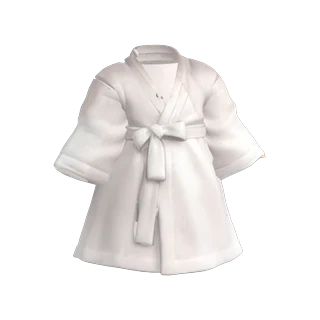
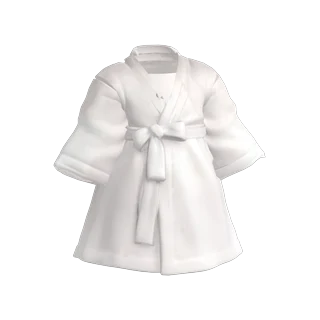
fix(art): 갓·도포를 기준 그림에 가깝게 (신발 구멍·목 뒤·목 안감·바지 통·흰색) (#331)
- fit_outfit.py: shoe_cap(신발 입구 뚜껑), dark_lining 모서리까지 검사, neck_poke(깃 뒤로 뚫고 나온 목 피부 가림),
  clean_skin(옷에 칠해진 피부색 정리), brighten/despeck(흰 옷 밝게·회색 점 제거), pants_low(대님 바지 통)
- render_look.py: view= 로 가까이 보기 각도 지정
- man·girl(몸 조각 변경), gat.glb, 옷장 그림, 문서 갱신

diff --git a/tools/character/fit_outfit.py b/tools/character/fit_outfit.py
@@ -1,6 +1,6 @@
 """Fit a Tripo outfit (made in parts on the shared body's T-pose sheet) onto the shared layered build as item set
 <set>, for any outfit: -- <shared_layers.glb> <outfit_parts.glb> <out.glb> set=h map=HAIR:0,1;TOP:2,3;BOTTOM:4;SHOES:5
-       [s=1.0] [dx=0 dy=0 dz=0] [head_fit=N] [pants=1] [fill=BOTTOM] [sleeve_drape=1.0 sleeves=N,M] [under_tops=1] [cull=1] [lining=1 lining_skin=1 v_cut=ax,az,lx,lz,rx,rz] [shoe_cut=1 | shoe_level=1] [dark_lining=SHOES] [clean_dark=TOP clean_v=1] [predecimate=N:faces] [smooth_rims=SHOES] [make_shoes=1 shoe_top=0.03] [socks=1] [skirt=TOP] [stiff=0.03] [boot_top=auto] [hair_hides_scalp=0]
+       [s=1.0] [dx=0 dy=0 dz=0] [head_fit=N] [pants=1] [fill=BOTTOM] [sleeve_drape=1.0 sleeves=N,M] [under_tops=1] [cull=1] [lining=1 lining_skin=1 v_cut=ax,az,lx,lz,rx,rz] [shoe_cut=1 | shoe_level=1] [dark_lining=SHOES] [shoe_cap=1] [clean_skin=TOP] [neck_poke=1] [brighten=TOP,BOTTOM despeck=1] [clean_dark=TOP clean_v=1] [predecimate=N:faces] [smooth_rims=SHOES] [make_shoes=1 shoe_top=0.03] [socks=1] [skirt=TOP] [stiff=0.03] [boot_top=auto] [hair_hides_scalp=0]
 
 The common steps of add_set.py (the general's script) without its general-only fixes (docs/character-outfits.md):
 - the outfit, scaled by s about the ground origin and moved by dx/dy/dz, lies on the shared body (check with
@@ -202,6 +202,32 @@ for slot, names in SLOT_PARTS.items():
     it = bpy.context.view_layer.objects.active; it.name = f'item__{slot}__{SET}'; G[slot] = it
     print('ITEM', it.name, len(it.data.polygons), 'faces')
 
+# brighten=TOP,BOTTOM (the gat's white dopo and baji): Tripo's whites came out grey, darker than the sheet's (user:
+# make it like the sheet). In the slots' images the light texels (brighter than 0.45) are lifted toward white by
+# brighten_k (0.35 of the way), the dark ones (hat, shoes, hair) left alone.
+_done_img = set()
+for slot in [x for x in opt.get('brighten', '').split(',') if x and x in G]:
+    for m in G[slot].data.materials:
+        for n in m.node_tree.nodes:
+            if n.type != 'TEX_IMAGE' or not n.image or n.image.name in _done_img: continue
+            img = n.image; _done_img.add(img.name); w_, h_ = img.size
+            P = np.array(img.pixels[:], np.float32).reshape(h_ * w_, -1)
+            lum = P[:, :3].mean(1); k = float(opt.get('brighten_k', 0.35)) * np.clip((lum - 0.45) / 0.2, 0, 1)
+            P[:, :3] += (1 - P[:, :3]) * k[:, None]
+            # despeck=1: Tripo's grey dots on the white cloth (user: like the sheet) are pixels darker by despeck_d
+            # (0.1) than their neighbourhood (a box of despeck_r, 10 px) where that neighbourhood is light (over 0.7);
+            # they take the neighbourhood's colour
+            if opt.get('despeck', '0') == '1':
+                r_ = int(opt.get('despeck_r', 10)); Q = P[:, :3].reshape(h_, w_, 3)
+                S = np.pad(Q, ((r_ + 1, r_), (r_ + 1, r_), (0, 0)), mode='edge').cumsum(0).cumsum(1)
+                Bx = (S[2 * r_ + 1:, 2 * r_ + 1:] - S[:-2 * r_ - 1, 2 * r_ + 1:] - S[2 * r_ + 1:, :-2 * r_ - 1] + S[:-2 * r_ - 1, :-2 * r_ - 1]) / (2 * r_ + 1) ** 2
+                bl, ql = Bx.mean(2), Q.mean(2)
+                sp = (bl > 0.7) & (ql < bl - float(opt.get('despeck_d', 0.1)))
+                Q[sp] = Bx[sp]; P[:, :3] = Q.reshape(-1, 3)
+                print('DESPECK', int(sp.sum()), 'pixels')
+            img.pixels[:] = P.ravel(); img.update(); img.pack()
+            print('BRIGHTEN', slot, img.name, w_, 'x', h_)
+
 if opt.get('boot_top', 'auto') == 'auto':
     boot_top = (max(v.co.z for v in G['SHOES'].data.vertices) - 0.015) if 'SHOES' in G else 0.0
 else:
@@ -271,10 +297,14 @@ if opt.get('pants', '0') == '1' and 'BOTTOM' in G:
     for _ in range(3): bmesh.ops.smooth_vert(pb_, verts=[v for v in pb_.verts if not v.is_boundary], factor=0.5,
                                              use_axis_x=True, use_axis_y=True, use_axis_z=True)
     FULL, INNER = float(opt.get('pants_full', 1.45)), float(opt.get('pants_inner', 0.35))
+    LOW = float(opt.get('pants_low', 0))
     hip_z, ankle_z = J['LeftUpLeg'].z, J['LeftFoot'].z
     def profile(z):
         t = (z - ankle_z) / (hip_z - ankle_z)
         pts = [(-1, 1.04), (0.0, 1.04), (0.1, 1.3), (0.45, FULL), (0.85, FULL * 0.9), (1.0, 1.2), (1.3, 1.08), (9, 1.08)]
+        # pants_low=k (the gat's baji, like the sheet's): full right down to the ankle, gathered there (k at 8 % of
+        # the leg over the ankle), instead of a straight tube under the robe
+        if LOW: pts = [(-1, 1.04), (0.0, 1.04), (0.08, LOW), (0.3, max(LOW, FULL * 0.95)), (0.45, FULL), (0.85, FULL * 0.9), (1.0, 1.2), (1.3, 1.08), (9, 1.08)]
         for (t0, f0), (t1, f1) in zip(pts, pts[1:]):
             if t <= t1: return f0 + (f1 - f0) * (t - t0) / (t1 - t0)
     def axis_point(co):
@@ -481,6 +511,36 @@ if opt.get('shoe_level', '0') == '1' and 'SHOES' in G:
         if v.co.z > zc and math.hypot(v.co.x - ft.x, v.co.y - ft.y) < rr: v.co.z = zc; n_ += 1
     print('SHOES', n_, 'rim vertices pressed to z', round(zc, 3))
 
+# shoe_cap=1 (the gat's low shoes): from above, between the trousers and the rim the shoe's empty inside showed the
+# ground (its inner faces are back faces, user: the feet are holed). Each shoe's opening gets a flat dark lid 1.5 mm
+# under the levelled rim: the outline (convex hull) of its vertices round the ankle (shoe_level_r) at the rim's level.
+if opt.get('shoe_cap', '0') == '1' and 'SHOES' in G:
+    from mathutils.geometry import convex_hull_2d
+    it = G['SHOES']; zc = boot_top + float(opt.get('shoe_level_up', 0.008)); rr = float(opt.get('shoe_level_r', 0.045))
+    img = next(n.image for m in it.data.materials for n in m.node_tree.nodes if n.type == 'TEX_IMAGE' and n.image)
+    w_, h_ = img.size; P = np.array(img.pixels[:], np.float32).reshape(h_, w_, -1)[..., :3]
+    uvd = it.data.uv_layers.active.data
+    cs = sorted((P[min(h_ - 1, int(uvd[l].uv[1] * h_)), min(w_ - 1, int(uvd[l].uv[0] * w_))].mean(), l) for l in range(0, len(uvd), 5))
+    dark_uv = tuple(uvd[cs[len(cs) // 4][1]].uv)
+    capb = bmesh.new()
+    for side, sg in (('Left', 1), ('Right', -1)):
+        ft = J[side + 'Foot']
+        pts = [(v.co.x, v.co.y) for v in it.data.vertices
+               if v.co.x * sg > 0 and v.co.z > zc - float(opt.get('shoe_cap_depth', 0.006)) and math.hypot(v.co.x - ft.x, v.co.y - ft.y) < rr]
+        if len(pts) < 3: continue
+        hull = convex_hull_2d(pts)
+        f = capb.faces.new([capb.verts.new((pts[i][0], pts[i][1], zc - 0.0015)) for i in hull])
+        f.normal_update()
+        if f.normal.z < 0: f.normal_flip()
+    bmesh.ops.triangulate(capb, faces=capb.faces[:])
+    cap = bpy.data.objects.new('cap', bpy.data.meshes.new('cap')); bpy.context.scene.collection.objects.link(cap)
+    capb.to_mesh(cap.data); capb.free(); n_cap = len(cap.data.polygons)
+    on_texel(cap, it, dark_uv)
+    cap.vertex_groups.new(name='part:shoes').add(list(range(len(cap.data.vertices))), 1.0, 'REPLACE')
+    for x in bpy.data.objects: x.select_set(x in (it, cap))
+    bpy.context.view_layer.objects.active = it; bpy.ops.object.join()
+    print('SHOES cap', n_cap, 'faces at z', round(zc - 0.0015, 4))
+
 # dark_lining=SHOES (the gat's shoes): the low shoes' white inner lining showed round the ankle as white teeth.
 # The slot's light faces (texel at their UV centre brighter than dark_light, 0.6) take its dark texel (the median
 # of its darker half).
@@ -492,12 +552,14 @@ for slot in [x for x in opt.get('dark_lining', '').split(',') if x]:
     col = lambda u: P[min(h_ - 1, int(u[1] * h_)), min(w_ - 1, int(u[0] * w_))]
     fc = {p.index: col(np.mean([tuple(uvd[l].uv) for l in p.loop_indices], 0)) for p in it.data.polygons}
     lum = {i: float(c.mean()) for i, c in fc.items()}
+    # (a face is light when its centre or any corner is: white triangles with dark centres stayed at the throat)
+    lum_max = {p.index: max([lum[p.index]] + [float(col(tuple(uvd[l].uv)).mean()) for l in p.loop_indices]) for p in it.data.polygons}
     dark = sorted(lum, key=lum.get)[: max(1, len(lum) // 2)]
     dmed = np.median([lum[i] for i in dark]); di = min(dark, key=lambda i: abs(lum[i] - dmed))
     duv = np.mean([tuple(uvd[l].uv) for l in it.data.polygons[di].loop_indices], 0)
     n_ = 0
     for p in it.data.polygons:
-        if lum[p.index] > float(opt.get('dark_light', 0.6)):
+        if lum_max[p.index] > float(opt.get('dark_light', 0.6)):
             for l in p.loop_indices: uvd[l].uv = duv
             n_ += 1
     print('DARK lining', slot, n_, 'light faces to', round(float(dmed), 2))
@@ -521,6 +583,24 @@ for slot in [x for x in opt.get('clean_dark', '').split(',') if x]:
             for l in p.loop_indices: uvd[l].uv = uv_mid
             n_ += 1
     print('CLEAN dark', slot, n_, 'faces')
+
+# clean_skin=TOP (the gat's dopo): Tripo painted skin on the robe round the neck (a beige ragged band under the
+# back collar, user: the back of the neck looks odd). Faces whose texel is skin-like (redder than green by
+# clean_skin_r, 0.06) take the robe's lit tone; the lining is left as it is.
+for slot in [x for x in opt.get('clean_skin', '').split(',') if x]:
+    it = G[slot]; uv_lit, _ = lit_texel(it, 60)
+    img = next(n.image for m in it.data.materials for n in m.node_tree.nodes if n.type == 'TEX_IMAGE' and n.image)
+    w_, h_ = img.size; P = np.array(img.pixels[:], np.float32).reshape(h_, w_, -1)[..., :3]
+    uvd = it.data.uv_layers.active.data; n_ = 0
+    tx = lambda u: P[min(h_ - 1, max(0, int(u[1] * h_))), min(w_ - 1, max(0, int(u[0] * w_)))]
+    lin = {i for g in it.vertex_groups if g.name == 'part:lining' for i in [g.index]}
+    for p in it.data.polygons:
+        if lin and any(e.group in lin for e in it.data.vertices[p.vertices[0]].groups): continue
+        us = [tuple(uvd[l].uv) for l in p.loop_indices]
+        if max(float(c[0] - c[1]) for c in [tx(np.mean(us, 0))] + [tx(u) for u in us]) > float(opt.get('clean_skin_r', 0.06)):
+            for l in p.loop_indices: uvd[l].uv = uv_lit
+            n_ += 1
+    print('CLEAN skin', slot, n_, 'faces')
 
 # smooth_rims=SHOES (the gat's low shoes): Tripo's opening rim was a row of teeth. Each open edge loop of the slot
 # is relaxed along itself (every rim vertex toward its two rim neighbours, 20 rounds): a smooth rim, the shoe kept
@@ -688,6 +768,14 @@ hair_bvh = None
 if 'HAIR' in G and opt.get('hair_hides_scalp', '0') == '1':
     hb = bmesh.new(); hb.from_mesh(G['HAIR'].data); hb.transform(G['HAIR'].matrix_world); hair_bvh = BVHTree.FromBMesh(hb); hb.free()
 neck_z, neck_xy = J['Neck'].z, (J['Neck'].x, J['Neck'].y)
+# neck_poke=1 (the gat's dopo): the neck's foot is left showing under a top, but behind the dopo's collar it came out
+# through the robe as a beige ragged band (user: the back of the neck looks odd). Those neck faces that lie outside
+# the top (the top within neck_poke_in, 1.5 cm, inward along the face's normal) are covered by it too.
+top_bvh_ = None
+if opt.get('neck_poke', '0') == '1' and 'TOP' in G:
+    _me = G['TOP'].evaluated_get(bpy.context.evaluated_depsgraph_get()).to_mesh()
+    _tb = bmesh.new(); _tb.from_mesh(_me); _tb.transform(G['TOP'].matrix_world); top_bvh_ = BVHTree.FromBMesh(_tb); _tb.free()
+n_poke = 0
 pieces = 0
 for o in body:
     me = o.data; mw = o.matrix_world
@@ -701,7 +789,12 @@ for o in body:
         bone_ = max(votes, key=votes.get)
         cv = set()
         if 'TOP' in G and bone_ in TOP_BONES and not (bone_.endswith('ForeArm') and abs(c.x) > sleeve_x - 0.01): cv.add('TOP')
-        if c.z > neck_z - 0.005 and math.hypot(c.x - neck_xy[0], c.y - neck_xy[1]) < 0.065: cv.discard('TOP')
+        if c.z > neck_z - 0.005 and math.hypot(c.x - neck_xy[0], c.y - neck_xy[1]) < 0.065:
+            cv.discard('TOP')
+            if top_bvh_ and c.z < neck_z + 0.04:
+                n = (mw.to_3x3() @ p.normal).normalized()
+                if top_bvh_.ray_cast(c - n * 0.0005, -n, float(opt.get('neck_poke_in', 0.015)))[0] is not None:
+                    cv.add('TOP'); n_poke += 1
         if 'BOTTOM' in G and bone_ in BOTTOM_BONES and c.z > boot_top: cv.add('BOTTOM')
         if 'SHOES' in G and (bone_ in FOOT_BONES or (bone_ in BOTTOM_BONES and c.z <= boot_top)): cv.add('SHOES')
         if hair_bvh and bone_ in ('Head', 'HeadTop_End'):
@@ -722,7 +815,7 @@ for o in body:
     covered = {i for cv, faces in groups.items() if cv for i in faces}
     b2 = bmesh.new(); b2.from_mesh(me); b2.faces.ensure_lookup_table()
     bmesh.ops.delete(b2, geom=[f for f in b2.faces if f.index in covered], context='FACES'); b2.to_mesh(me); b2.free()
-print('BODY pieces added', pieces)
+print('BODY pieces added', pieces, '; neck faces out through the top', n_poke)
 # 4. under_tops=1: bottom faces that a top covers become item__BOTTOM__<set>__under_TOP<x>... pieces, hidden while that
 #    top is worn. The gat's made pants reach over the belly (their waist is cut level above the hidden body's top)
 #    and came out through the dopo (user); worn with other tops they could do the same. Covered: a top within

diff --git a/tools/character/render_look.py b/tools/character/render_look.py
@@ -1,5 +1,6 @@
 """Render pieces builds (to_game.py pieces=1) as worn, the way the game picks pieces (characterLook.ts):
 -- <avatar_raw.glb> <out_prefix> HAIR=man/b TOP=gat/h ... [variant=man] [with=gat@parts/gat_raw.glb ...]
+[view=name:dx,dy,dz:cx,cy,cz:scale ...] (close-ups in place of the four standard views)
 The avatar's own file gives the body and its items; with=<source>@<raw.glb> adds another file's items (an outfit
 file, or the other character's). Faces of hidden pieces are deleted (glTF triangle order = Blender face order);
 writes <out_prefix>_front/_side/_face/_back.png on a magenta background (holes show magenta)."""
@@ -10,7 +11,7 @@ path, tag = a[0], os.path.abspath(a[1])
 args = [x.split('=', 1) for x in a[2:]]
 variant = next((v for k, v in args if k == 'variant'), 'man')
 files = [(variant, path)] + [tuple(v.split('@', 1)) for k, v in args if k == 'with']
-look = {k: v for k, v in args if k not in ('variant', 'with')}             # SLOT=source/id
+look = {k: v for k, v in args if k not in ('variant', 'with', 'view')}             # SLOT=source/id
 worn = {s + v.split('/')[1] for s, v in look.items()}
 tokens = lambda rule: re.findall(r'[A-Z]+[a-z0-9]+', rule or '')
 def shown(name, src):
@@ -39,6 +40,8 @@ sc.render.resolution_x = sc.render.resolution_y = 700
 cam = bpy.data.objects.new('c', bpy.data.cameras.new('c')); sc.collection.objects.link(cam); sc.camera = cam
 views = {'front': ((0, -1, 0.1), (0, 0, 1.0), 2.2), 'side': ((1, -0.35, 0.1), (0, 0, 1.0), 2.2),
          'face': ((0.2, -1, 0.1), (0, 0, 1.4), 0.75), 'back': ((0, 1, 0.2), (0, 0, 1.0), 2.2)}
+extra = [v.split(':') for k, v in args if k == 'view']
+if extra: views = {n: (tuple(map(float, d.split(','))), tuple(map(float, c.split(','))), float(S)) for n, d, c, S in extra}
 for name, (d, c, S) in views.items():
     d = Vector(d).normalized(); c = Vector(c); cam.data.type = 'ORTHO'; cam.data.ortho_scale = S; cam.location = c + d * 4
     cam.rotation_euler = (-d).to_track_quat('-Z', 'Y').to_euler()

diff --git a/docs/character-outfits.md b/docs/character-outfits.md
@@ -66,7 +66,7 @@
 새 옷은 `tools/character/fit_outfit.py`를 쓴다. `add_set.py`(장군)에서 장군 전용 보정을 뺀 범용 스크립트다.
 
 ```bash
-"$B" -b --python tools/character/fit_outfit.py -- docs/character-outfits/shared_layers_gf.glb new_outfit_parts.glb shared_layers_h.glb set=h s=1.065 head_fit=4 "map=HAIR:0,1;TOP:12,2,3,5,9;BOTTOM:7,10;SHOES:6,8" skirt=TOP pants=1 sleeve_drape=0.4 sleeves=3,5 under_tops=1 cull=1 lining=1 v_cut=-0.0088,0.498,-0.0552,0.602,0.0492,0.602 v_cut_margin=0.012 lining_down=0.09 pants_hem=0.003 shoe_level=1 shoe_level_up=-0.001 shoe_level_r=0.075 dark_lining=SHOES clean_dark=TOP predecimate=0:5000
+"$B" -b --python tools/character/fit_outfit.py -- docs/character-outfits/shared_layers_gf.glb new_outfit_parts.glb shared_layers_h.glb set=h s=1.065 head_fit=4 "map=HAIR:0,1;TOP:12,2,3,5,9;BOTTOM:7,10;SHOES:6,8" skirt=TOP pants=1 sleeve_drape=0.4 sleeves=3,5 under_tops=1 cull=1 lining=1 v_cut=-0.0088,0.498,-0.0552,0.602,0.0492,0.602 v_cut_margin=0.012 lining_down=0.09 pants_hem=0.003 shoe_level=1 shoe_level_up=-0.001 shoe_level_r=0.075 dark_lining=SHOES clean_dark=TOP predecimate=0:5000 shoe_cap=1 shoe_cap_depth=0.01 clean_skin=TOP brighten=TOP,BOTTOM despeck=1 pants_full=1.7 pants_low=1.55 neck_poke=1 lining_up=-0.012
 ```
 
 위는 갓·도포(세트 h)를 만든 그대로의 명령이다. 숫자 값(`v_cut` 좌표 등)은 이 옷에 맞춘 것이라 새 옷에서는 다시 잰다.
@@ -86,6 +86,12 @@
 | `v_cut=ax,az,lx,lz,rx,rz` | V자 옷깃을 V의 아래 꼭짓점 A에서 왼쪽·오른쪽 위 모서리 L·R로 가는 두 직선으로 잘라 곧게 만든다. 좌표(m)는 정면에서 똑바로 찍은 그림에서 잰다. `v_cut_margin`은 선 밖으로 안감을 남기는 폭 |
 | `shoe_level=1` | 낮은 신발의 들쭉날쭉한 입구를 면을 지우지 않고 한 높이로 눌러 평평하게 만든다(지우면 구멍이 남). `shoe_level_up`은 높이, `shoe_level_r`은 발목 중심에서의 범위 |
 | `dark_lining=SHOES` | 신발 안쪽의 흰 안감을 신발의 어두운 색으로 칠한다 |
+| `shoe_cap=1` | 신발 입구를 어두운 평평한 뚜껑으로 막는다. 위에서 보면 신발 속이 비어 바닥이 보였다. `shoe_cap_depth`는 뚜껑 둘레를 잡는 깊이 |
+| `pants_full`, `pants_low` | 바지 통. `pants_low`를 주면 발목 바로 위까지 넉넉하다가 발목에서 모인다(대님 바지) |
+| `neck_poke=1` | 상의 깃 뒤로 목 아래쪽 피부가 옷을 뚫고 나오면 그 몸 면도 상의가 가리게 한다. **몸 조각이 바뀌므로 man·girl도 다시 만든다** |
+| `lining_up` | 목 안감 윗선 높이(목 관절 기준). 너무 높으면 티셔츠 목처럼 올라와 보인다 |
+| `clean_skin=TOP` | Tripo가 옷에 잘못 칠한 피부색 면을 옷 색으로 바꾼다 |
+| `brighten=TOP,BOTTOM despeck=1` | 회색으로 나온 흰 옷을 시트처럼 하얗게 올리고, 흰 천의 회색 점을 지운다(어두운 색은 그대로) |
 
 장군처럼 특별한 보정이 필요한 옷만 `add_set.py`를 복사해 쓴다. 그 보정들은 Tripo 부품 번호로 대상을 고르기 때문에, 다른 옷에 그대로 쓰면 엉뚱한 부품을 고친다.
 
